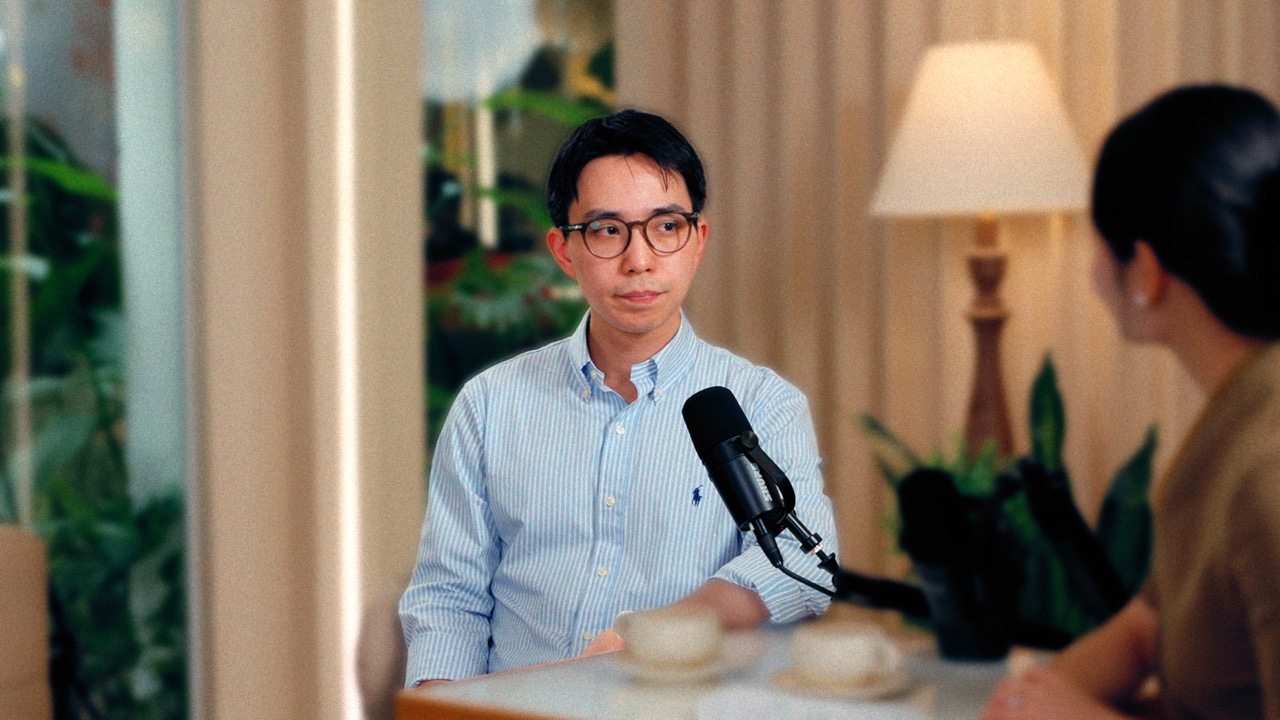
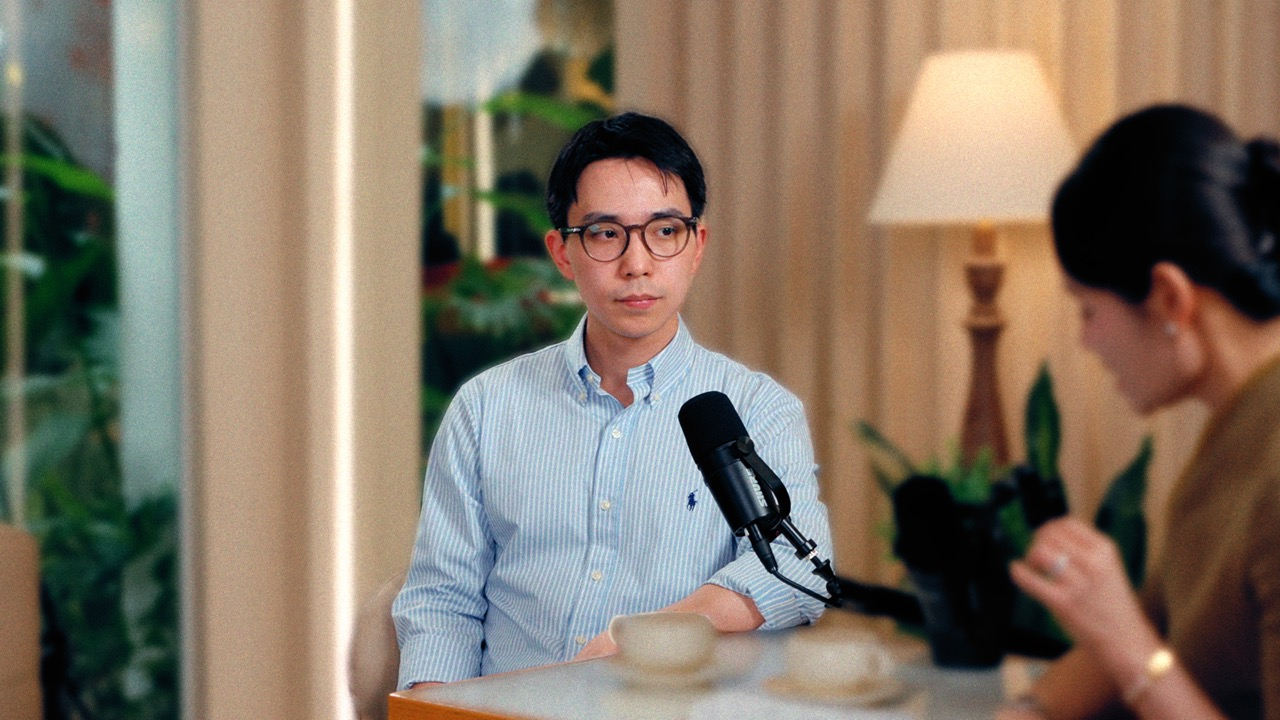
Update footer links + swap podcast photo

diff --git a/index.html b/index.html
@@ -1065,12 +1065,11 @@
       <div class="footer__logo">Nam<span>.</span>Anh</div>
       <p class="footer__tag">Tài chính cá nhân · Đầu tư · Tự do tài chính cho Gen Z &amp; Millennial Việt Nam</p>
       <ul class="footer__nav">
-        <li><a href="#">YouTube</a></li>
-        <li><a href="#">Instagram</a></li>
-        <li><a href="#">BriefDi</a></li>
-        <li><a href="#">Làm Chủ Tiền</a></li>
-        <li><a href="#">Năng Suất Private</a></li>
-        <li><a href="#">Liên hệ</a></li>
+        <li><a href="https://www.youtube.com/@Namanhsuit" target="_blank" rel="noopener">YouTube</a></li>
+        <li><a href="https://www.instagram.com/namanhsuit" target="_blank" rel="noopener">Instagram</a></li>
+        <li><a href="https://lamchutien.namanhsuit.com" target="_blank" rel="noopener">Làm Chủ Tiền</a></li>
+        <li><a href="https://tiennangsuat.namanhsuit.com/" target="_blank" rel="noopener">Năng Suất Private</a></li>
+        <li><a href="mailto:[email redacted]">Liên hệ</a></li>
       </ul>
       <p class="footer__copy">© 2026 Nam Anh. Mọi quyền được bảo lưu.</p>
     </div>